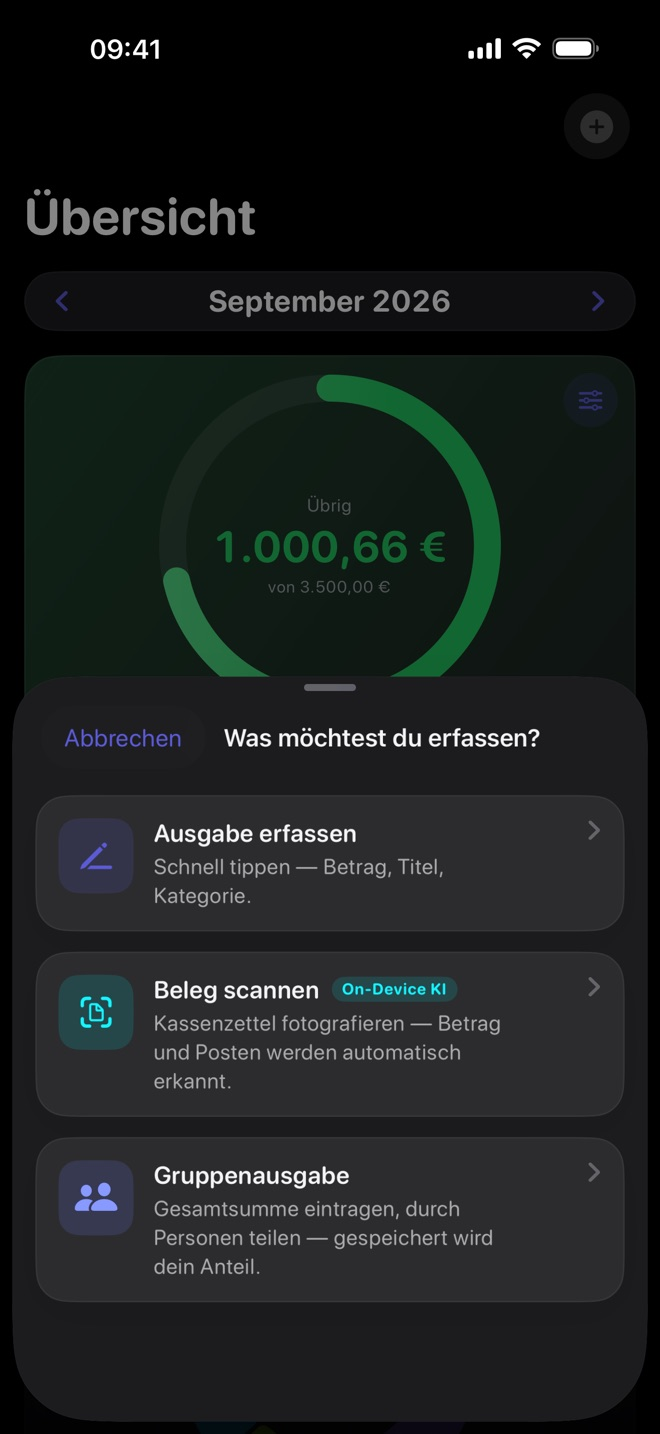
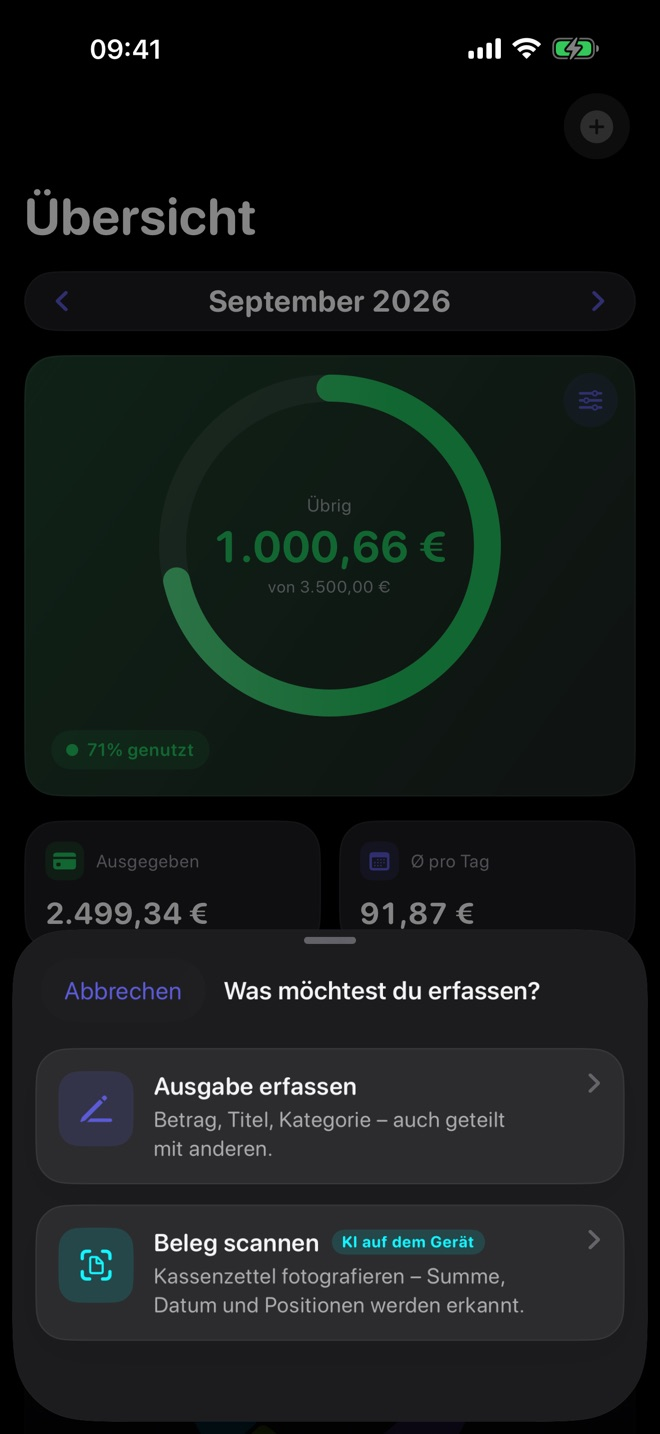
Belegscan mit Rechenprobe, Aufteilen auch nachträglich
Erfassen: Belege werden mit Summe, Datum und Positionen erkannt, samt
Rechenprobe; geteilte Rechnungen lassen sich auch nachträglich
aufteilen, etwa bei einer Apple-Pay-Zahlung. Zwei neue Fragen: Wie
zählt nur mein Anteil, und wie genau werden Belege erkannt (inklusive,
welche iPhones die KI nutzen). Die Datenschutzerklärung beschreibt,
dass das Foto auf unterstützten Geräten vom Sprachmodell auf dem Gerät
gelesen wird. Neues Bild der Auswahl beim Erfassen.

diff --git a/index.html b/index.html
@@ -391,14 +391,14 @@
         <h3>In Sekunden erfasst</h3>
         <p>Betrag, Titel, fertig. Häufige Einträge schlägt Monatskasse schon beim Tippen vor, samt Kategorie und Zahlart.</p>
         <ul class="checks">
-          <li><svg class="i" aria-hidden="true"><use href="#i-check"/></svg><span>Kassenbeleg fotografieren: Betrag und Datum werden direkt auf dem Gerät erkannt</span></li>
-          <li><svg class="i" aria-hidden="true"><use href="#i-check"/></svg><span>Rechnung geteilt? Gesamtbetrag und Anzahl Personen eingeben, gespeichert wird dein Anteil</span></li>
+          <li><svg class="i" aria-hidden="true"><use href="#i-check"/></svg><span>Kassenbeleg fotografieren: Summe, Datum und Positionen werden auf dem Gerät erkannt – mit Rechenprobe, damit die Beträge stimmen</span></li>
+          <li><svg class="i" aria-hidden="true"><use href="#i-check"/></svg><span>Rechnung geteilt? Durch Personen teilen oder deinen Anteil eintragen – auch nachträglich, etwa bei einer Apple-Pay-Zahlung</span></li>
           <li><svg class="i" aria-hidden="true"><use href="#i-check"/></svg><span>Auch mit Siri, mit Kurzbefehlen oder über den Knopf im Kontrollzentrum</span></li>
         </ul>
       </div>
       <figure class="media">
         <img class="shot" src="bilder/erfassen.jpg" width="660" height="1434" loading="lazy" decoding="async"
-             alt="Auswahl beim Erfassen: Ausgabe erfassen, Beleg scannen oder Gruppenausgabe.">
+             alt="Auswahl beim Erfassen: Ausgabe erfassen oder Beleg scannen.">
       </figure>
     </article>
 
@@ -691,6 +691,22 @@
         <div>
           <p>Die Automation von iOS meldet auch Zahlungen, die abgelehnt wurden. Automatisch erfasste Zahlungen landen deshalb zuerst unter „Zu prüfen“ und zählen erst nach deiner Bestätigung zur Monatssumme.</p>
           <p>Korrigierst du dabei Kategorie oder Zahlart, merkt sich Monatskasse den Händler und ordnet ihn beim nächsten Einkauf selbst richtig zu. Löst die Automation zweimal aus, wird derselbe Betrag beim selben Händler innerhalb von fünf Minuten nur einmal erfasst.</p>
+        </div>
+      </details>
+
+      <details>
+        <summary>Ich habe für mehrere bezahlt – zählt nur mein Anteil?</summary>
+        <div>
+          <p>Ja, wenn du die Buchung aufteilst: beim Erfassen über „Mit anderen geteilt“, bei Apple-Pay-Zahlungen unter „Zu prüfen“ über „Teilen“ und nachträglich bei jeder Buchung in der Detailansicht über „Aufteilen“.</p>
+          <p>Du teilst gleichmäßig durch die Anzahl Personen oder trägst deinen Anteil ein. Fürs Budget zählt dann nur dein Anteil; was du insgesamt bezahlt hast, bleibt vermerkt, und die Aufteilung lässt sich jederzeit zurücknehmen.</p>
+        </div>
+      </details>
+
+      <details>
+        <summary>Wie genau werden Kassenbelege erkannt?</summary>
+        <div>
+          <p>Monatskasse liest den Beleg direkt auf deinem iPhone und macht eine Rechenprobe: Nur wenn die Positionen genau die Summe ergeben, bietet die App sie zum Abwählen an. So wird weder ein Steuerbetrag noch „Bar 20,00“ versehentlich zur Summe.</p>
+          <p>Das klappt auf jedem iPhone, auf dem Monatskasse läuft. Ab iPhone 15 Pro mit eingeschalteter Apple Intelligence schlägt zusätzlich das Sprachmodell von Apple die Kategorie vor und hilft bei unübersichtlichen Belegen; auf iPhone Air, 17 Pro und 17 Pro Max mit iOS 27 sieht es auch das Foto. Nichts davon verlässt dein Gerät.</p>
         </div>
       </details>
 

diff --git a/datenschutz.html b/datenschutz.html
@@ -81,7 +81,7 @@
 </ul>
 
 <h2>4. Kamera und Belegerkennung</h2>
-<p>Wenn du einen Kassenbeleg scannst, bittet die App um Zugriff auf die Kamera. Das Foto wird nur verwendet, um den Text auf deinem Gerät zu erkennen – mit der Texterkennung von iOS und auf unterstützten Geräten zusätzlich mit Apple Intelligence direkt auf dem Gerät. Das Foto wird weder gespeichert noch übertragen. Gespeichert werden nur die Angaben, die du in die Buchung übernimmst.</p>
+<p>Wenn du einen Kassenbeleg scannst, bittet die App um Zugriff auf die Kamera. Das Foto wird nur verwendet, um den Beleg auf deinem Gerät auszulesen – mit der Texterkennung von iOS und auf unterstützten Geräten zusätzlich mit dem Sprachmodell von Apple Intelligence, das ebenfalls auf dem Gerät arbeitet. Das Foto wird weder gespeichert noch übertragen. Gespeichert werden nur die Angaben, die du in die Buchung übernimmst.</p>
 
 <h2>5. App-Sperre mit Face ID</h2>
 <p>Schaltest du die App-Sperre ein, prüft iOS deine Identität mit Face ID, Touch ID oder dem Gerätecode. Die App erhält dabei nur das Ergebnis – bestätigt oder nicht. Biometrische Daten erhält die App nicht.</p>
